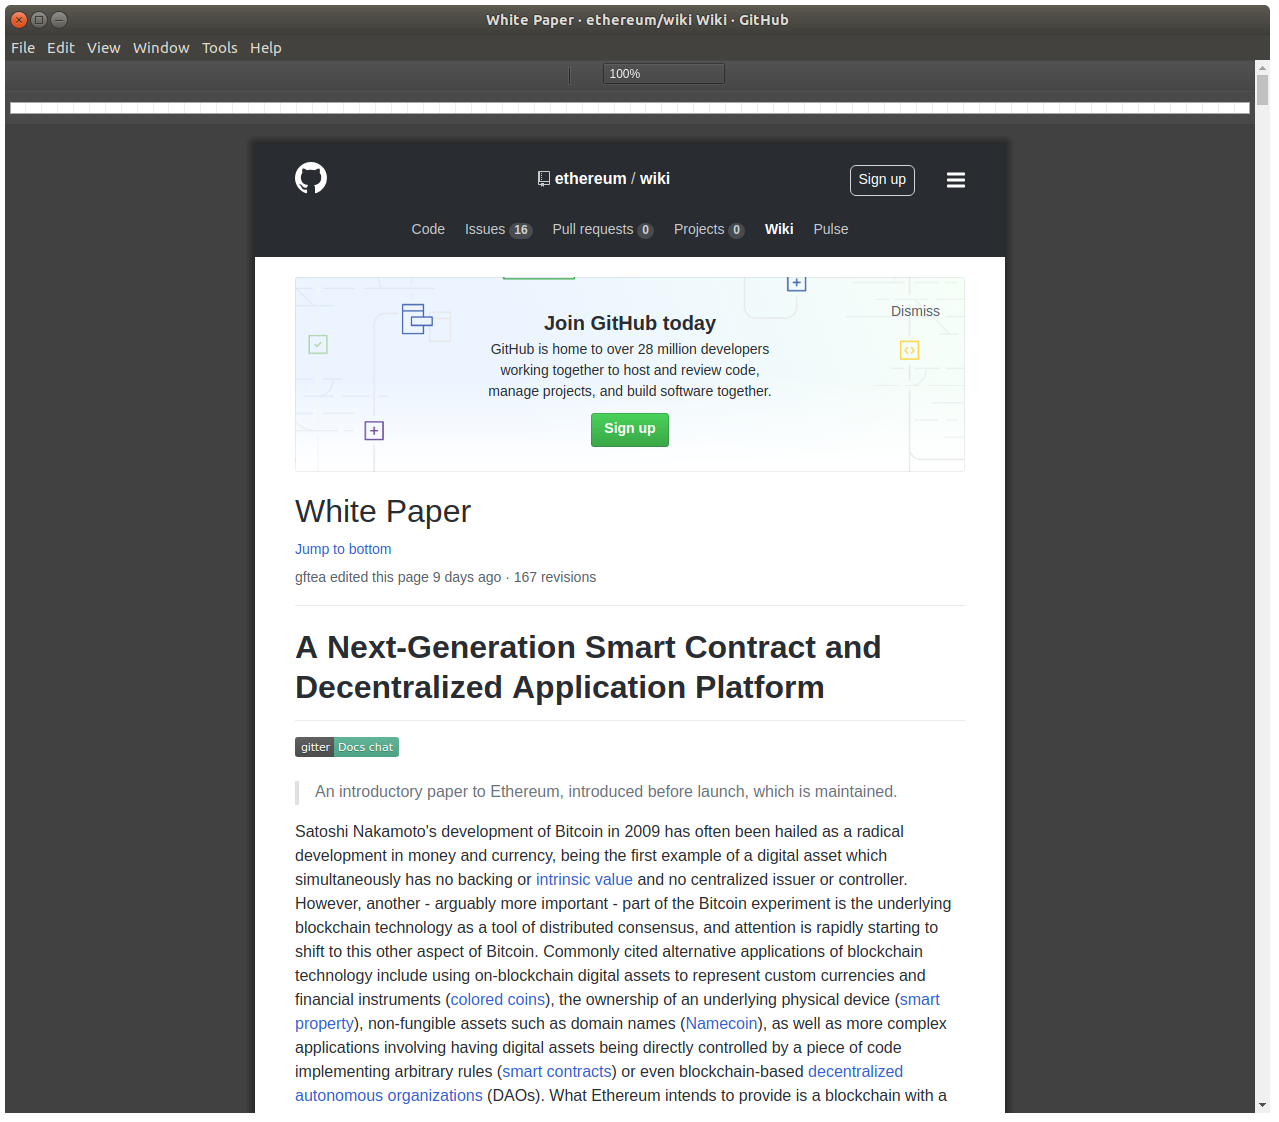
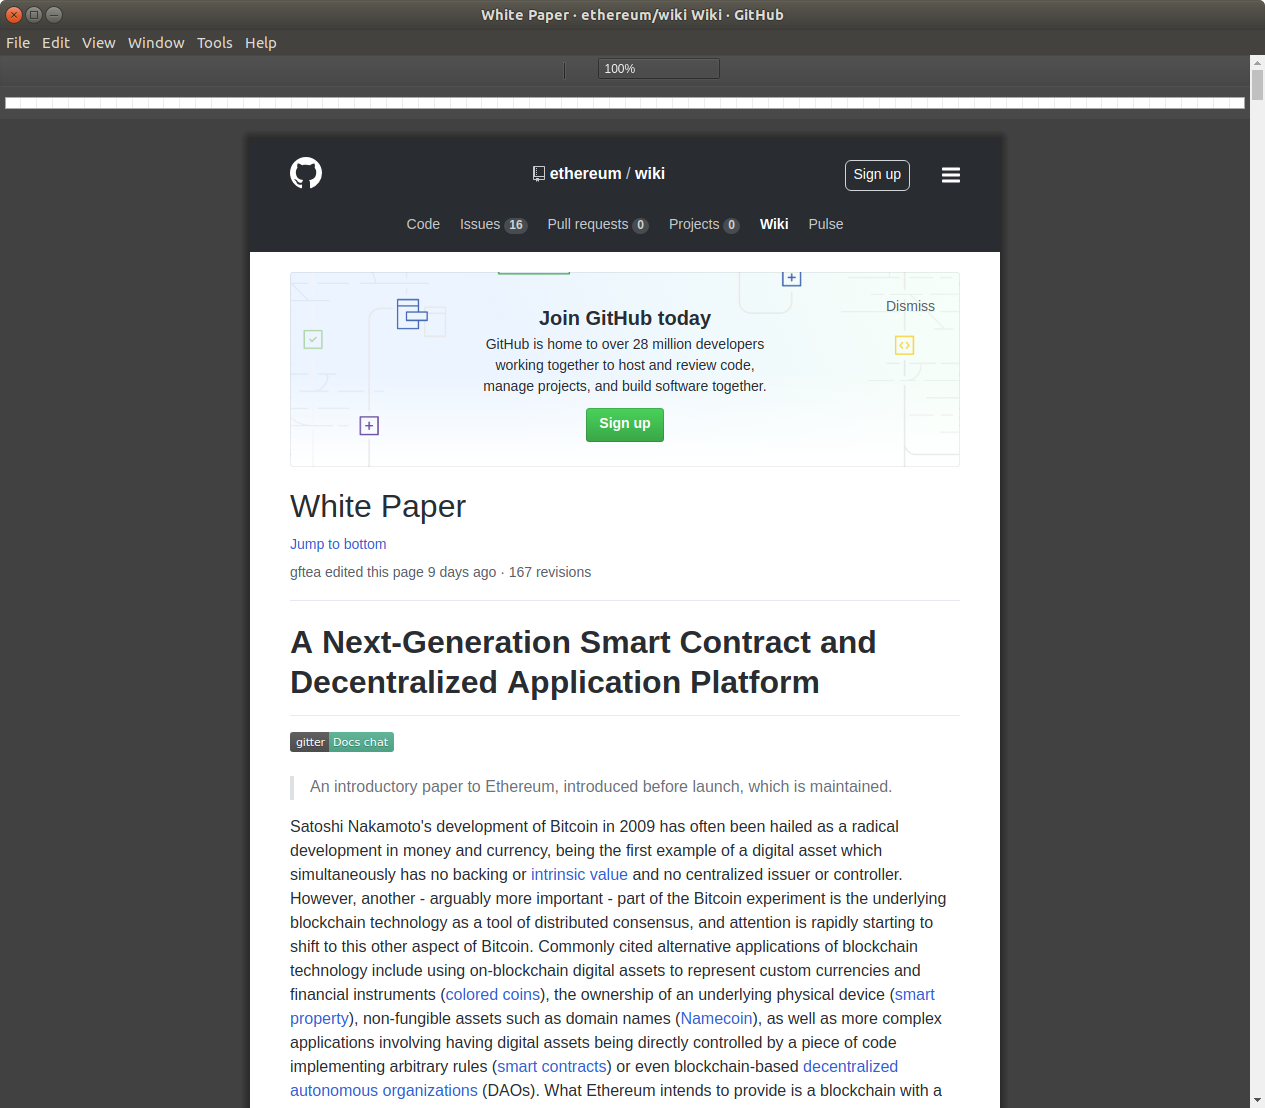
...

diff --git a/docs/screenshots/test.html b/docs/screenshots/test.html
@@ -1,0 +1,9 @@
+<img src="pdf-loaded-shadow.png">
+<br>
+<img src="pdf-loaded.png">
+
+<br>
+
+<img src="pdf-loaded-shadow.png" border="1">
+<br>
+<img src="pdf-loaded.png">

diff --git a/README.md b/README.md
@@ -41,13 +41,13 @@ research which is often stored as PDF.
 
 # Screenshots
 
-<img src="https://raw.githubusercontent.com/burtonator/polar-bookshelf/master/docs/screenshots/pdf-loaded.png" align="center" title="PDF" style="box-shadow: 0 4px 8px 0 rgba(0, 0, 0, 0.2), 0 6px 20px 0 rgba(0, 0, 0, 0.19);">
+<img src="https://raw.githubusercontent.com/burtonator/polar-bookshelf/master/docs/screenshots/pdf-loaded-shadow.png" align="center" title="PDF" style="box-shadow: 0 4px 8px 0 rgba(0, 0, 0, 0.2), 0 6px 20px 0 rgba(0, 0, 0, 0.19);">
 
 <p align="center">
     <b>PDF Document</b> Polar has excellent PDF support.
 </p>
 
-![Captured Web Content](https://raw.githubusercontent.com/burtonator/polar-bookshelf/master/docs/screenshots/captured-web-content.png)
+![Captured Web Content](https://raw.githubusercontent.com/burtonator/polar-bookshelf/master/docs/screenshots/captured-web-content-shadow.png)
 
 <p align="center">
     <b>Captured Web Content</b> Polar supports fetching and storing web content locally for annotating.
